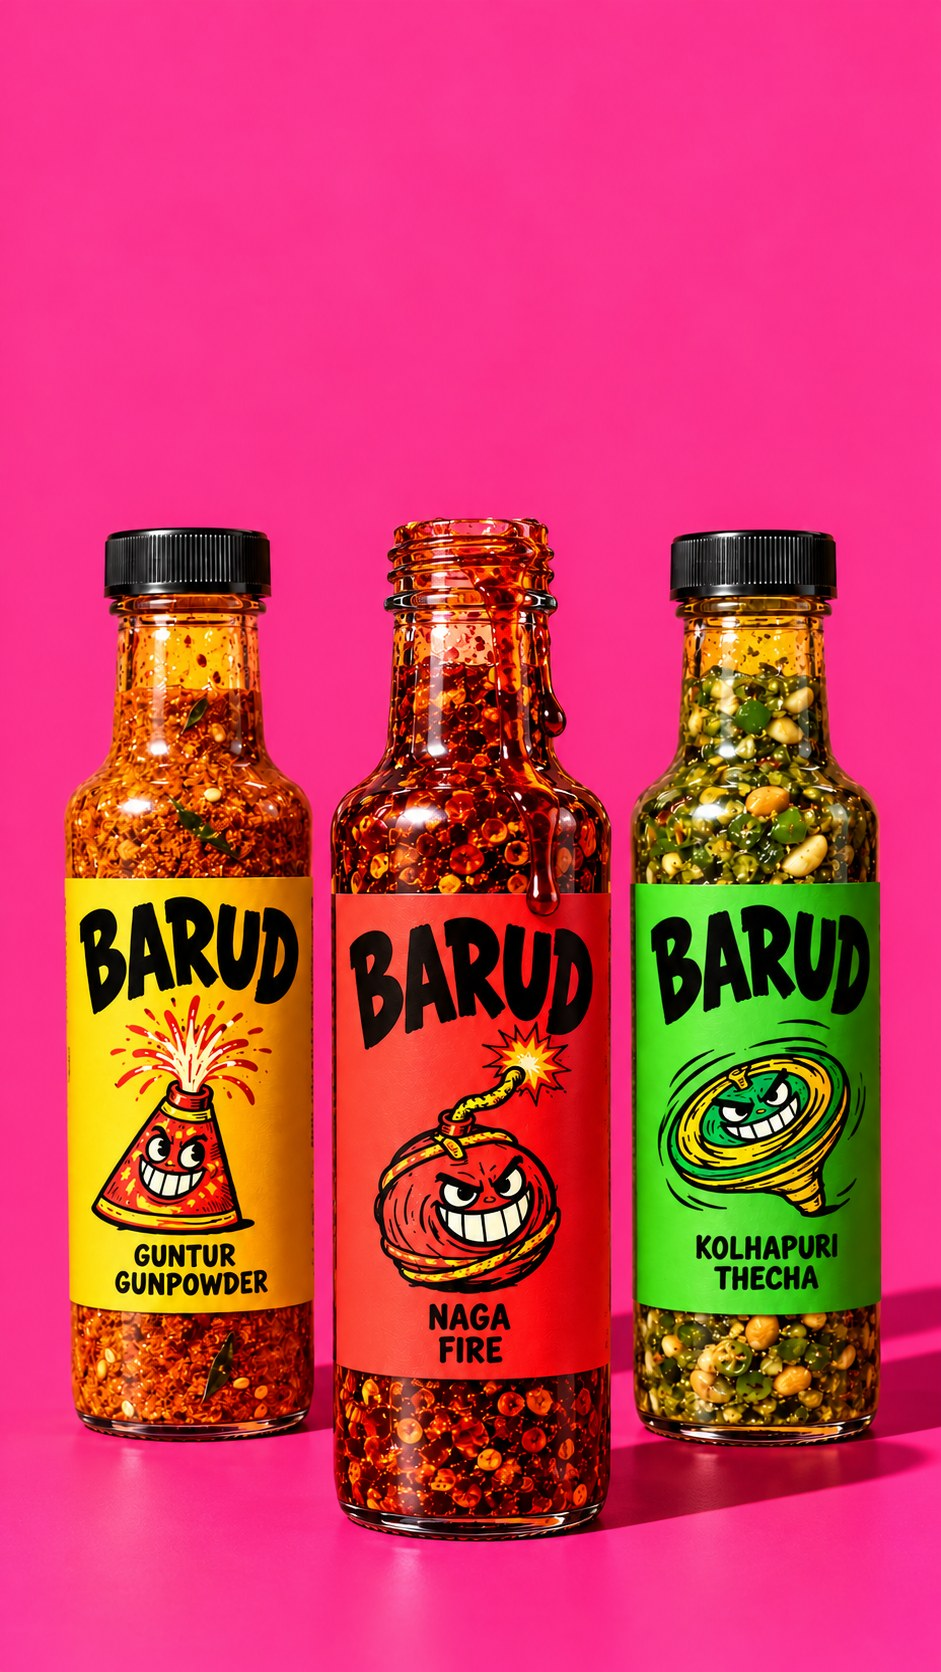
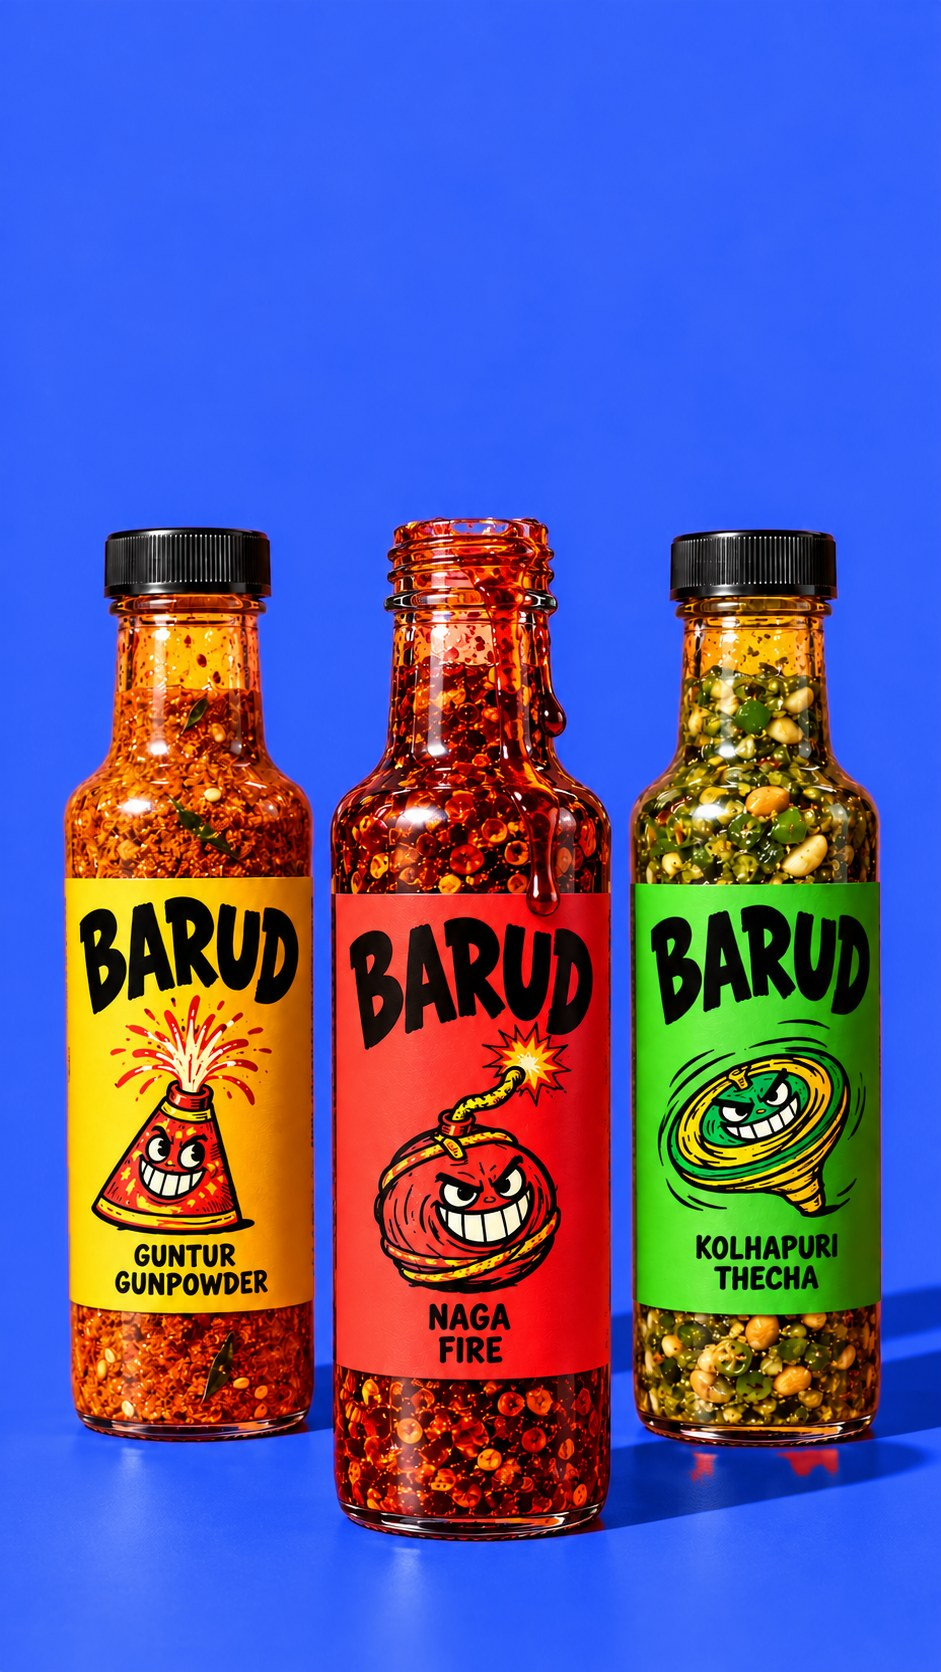
Issue 03 draft: Wet Ones, BGMI, Temple images; BARUD range on blue
Claude-Session: https://claude.ai/code/session_01FWqq8nrNJmXGbMVMstTQza

diff --git a/issues/03.html b/issues/03.html
@@ -15,7 +15,6 @@
 .i03 .steal .steps3 h4 { font-size: 36px; }
 .i03 .steal .steps3 p { font-size: 24px; }
 .i03 .steal .steps3 b { font-size: 64px; }
-.i03 .ph { background: repeating-linear-gradient(45deg,#ddd,#ddd 14px,#ccc 14px,#ccc 28px); display:flex; align-items:center; justify-content:center; font-weight:700; font-size:22px; color:#555; text-align:center; width:100%; height:100%; }
 </style>
 </head>
 <body>
@@ -116,7 +115,7 @@
     <p class="sub">Wet Ones put "hand butts" all over New York.</p>
   </div>
   <div class="pad" style="margin-top:24px">
-    <div class="imgcard" style="height:560px"><!--IMG:camp--><div class="ph">Wet Ones image from Neha</div><span class="credit">Wet Ones · BBH USA · New York</span></div>
+    <div class="imgcard" style="height:560px"><img src="../img/03-wetones.jpg" alt="Wet Ones street posters: close-ups of fingers posed to look like bottoms, between red and yellow Wet Ones panels" style="object-position:50% 50%"><span class="credit">Wet Ones · BBH USA · New York</span></div>
   </div>
   <div class="pad" style="margin-top:24px">
     <span class="label" style="color:var(--yellow)">What they did</span>
@@ -190,7 +189,7 @@
         <p>We send our interns to the best momo spots in town with just one bottle: <b>Naga Fire.</b> They hand it to people eating momos, hit record and watch the faces.</p>
       </div>
     </div>
-    <div class="tall"><img src="../img/03-barud-range.jpg" alt="Three BARUD bottles on pink: Guntur Gunpowder, Naga Fire and Kolhapuri Thecha" style="object-position:50% 72%"></div>
+    <div class="tall"><img src="../img/03-barud-range.jpg" alt="Three BARUD bottles on blue: Guntur Gunpowder, Naga Fire and Kolhapuri Thecha" style="object-position:50% 72%"></div>
   </div>
   <div class="posband">
     <span class="label">Positioning</span>
@@ -225,8 +224,8 @@
     <div class="tiles">
       <div class="tile"><div class="im"><img src="../img/03-swiggy.jpg" alt="Kareena Kapoor Khan in a face mask with kaju katli on her eyes, next to boxes of Sweety mithai"></div><div class="cap"><b>Swiggy → Sweety</b><p>New name on hoardings, rider T-shirts and in the app. Kareena brought back Poo for it.</p></div></div>
       <div class="tile"><div class="im"><img src="../img/03-zomato.jpg" alt="Saif Ali Khan in a festive jacket biting into a snack"></div><div class="cap"><b>Zomato × Saif</b><p>"Not everyone needs another bedsheet this Diwali."</p></div></div>
-      <div class="tile"><div class="im"><!--IMG:w3--><div class="ph">BGMI</div></div><div class="cap"><b>BGMI</b><p>Roasts its rival as the "Cartoon Waala Game", without naming it.</p></div></div>
-      <div class="tile"><div class="im"><!--IMG:w4--><div class="ph">Temple</div></div><div class="cap"><b>Temple</b><p>An ₹85,000 headband, no ads, just Shubman Gill wearing it. Site crashed.</p></div></div>
+      <div class="tile"><div class="im"><img src="../img/03-bgmi.jpg" alt="Anuj Gupta at a dinner table in a bib with a pacifier in his mouth"></div><div class="cap"><b>BGMI</b><p>Roasts its rival as the "Cartoon Waala Game", without naming it.</p></div></div>
+      <div class="tile"><div class="im"><img src="../img/03-temple.jpg" alt="PV Sindhu wearing the Temple device on the side of her forehead"></div><div class="cap"><b>Temple</b><p>₹85,000 headband. No ads, just Shubman and Sindhu wearing it. Site crashed.</p></div></div>
       <div class="tile"><div class="im"><img src="../img/03-hyundai.jpg" alt="A vintage white Hyundai Santro on a street lit with Diwali lights"></div><div class="cap"><b>Hyundai × TTT</b><p>A Diwali micro-drama where a vintage Santro is the family memory.</p></div></div>
       <div class="tile takebox said"><span class="label">The pattern</span><p>Funny how husband and wife became the faces of rivals Swiggy and Zomato this Diwali. Zomato went the ad route, Swiggy went the other way.</p></div>
     </div>
